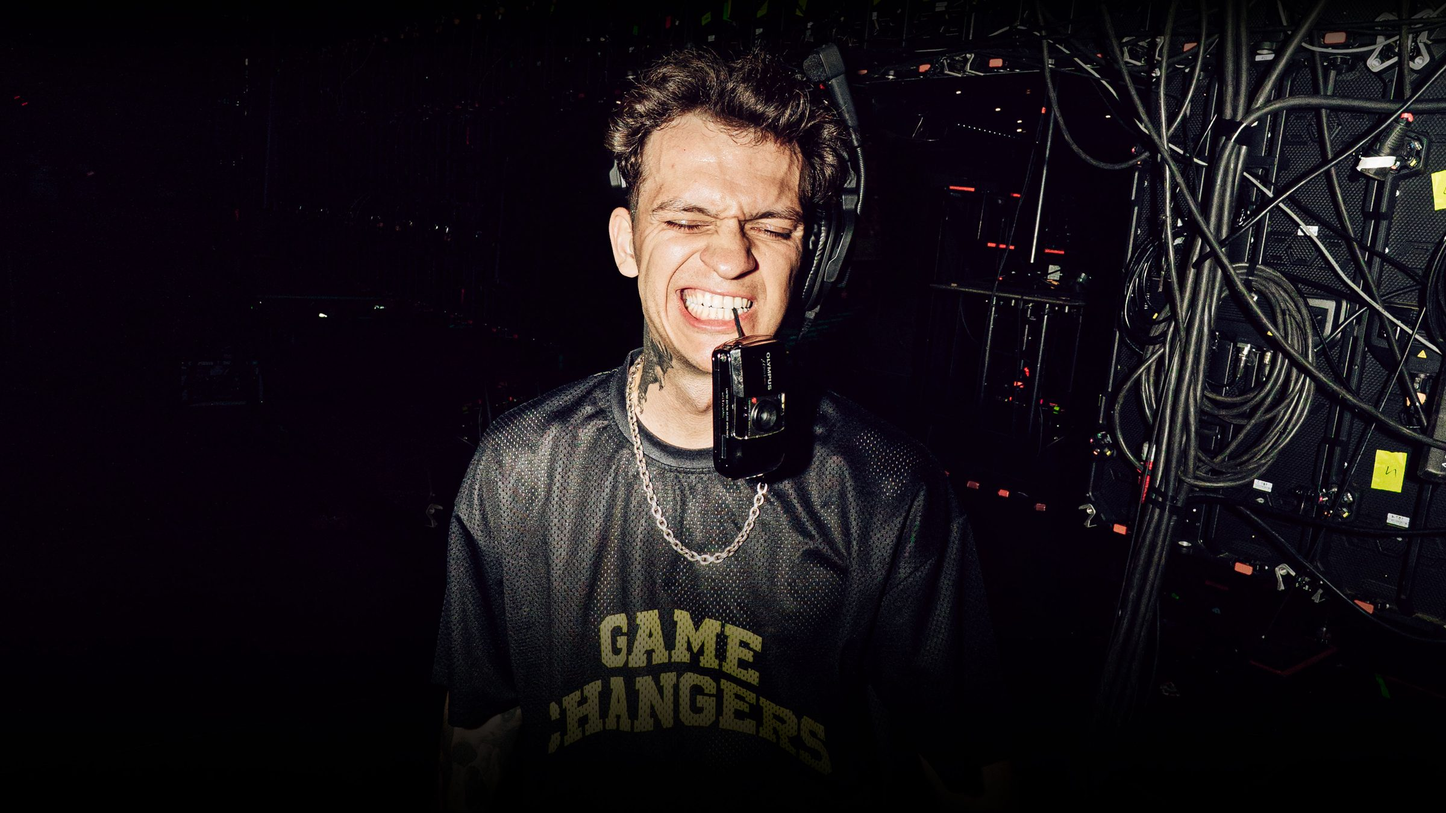
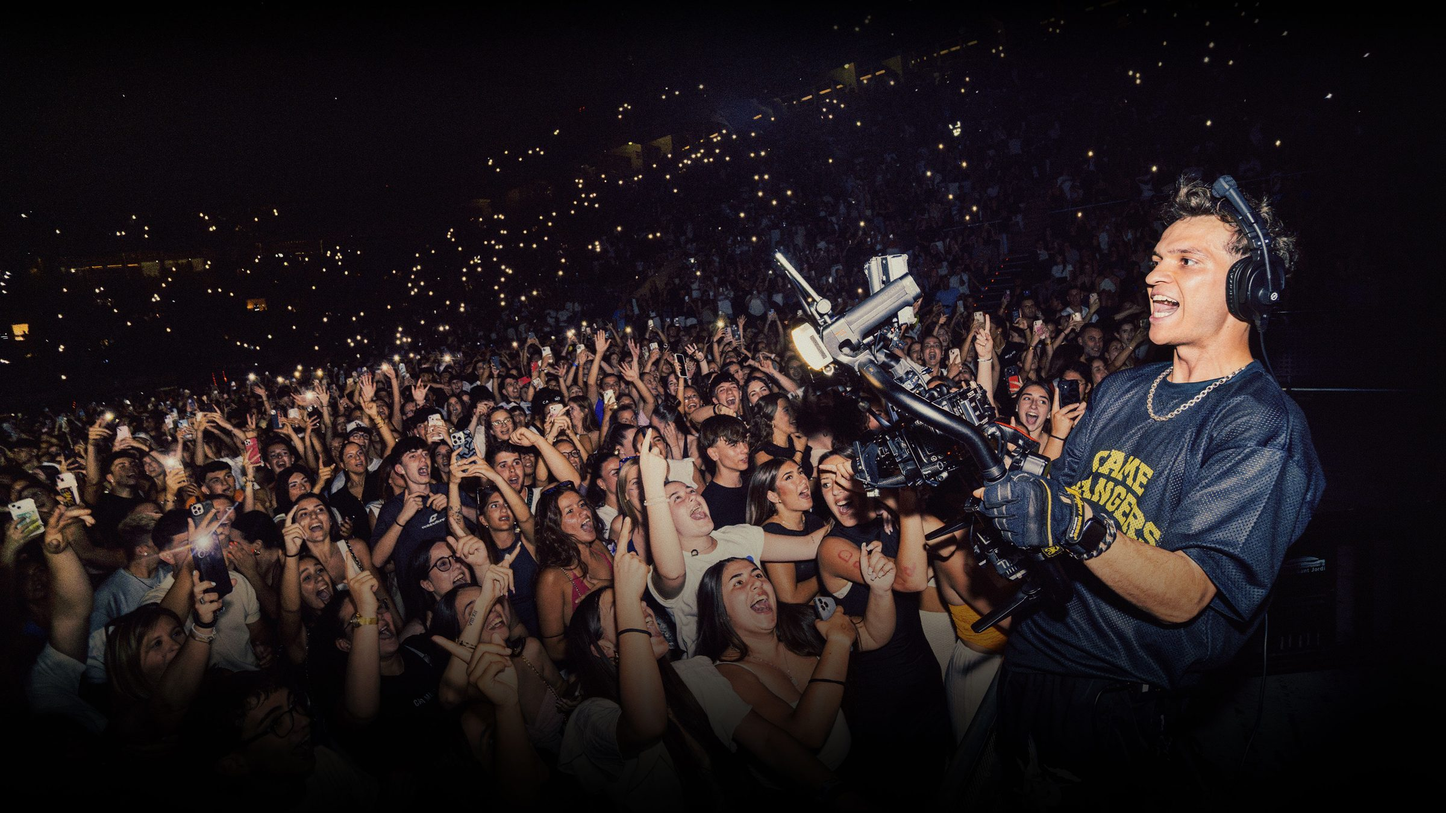
hero v3 locked: 005 desktop + full-bleed mobile, dark only, copy left, numbers first scroll on phone, About card 1.35fr
Oleg 2026-09-02 19:31: 'keep it as it is right now'. Tag hero-lock-2.

diff --git a/index.html b/index.html
@@ -16,7 +16,6 @@
 <link rel="canonical" href="https://olegbrovchenko.com/">
 <link rel="icon" href="/favicon.svg" type="image/svg+xml">
 <meta name="theme-color" content="#121212">
-<script>(function(){try{var t=localStorage.getItem('theme');if(!t)t=matchMedia('(prefers-color-scheme: dark)').matches?'dark':'light';document.documentElement.setAttribute('data-theme',t)}catch(e){}})()</script>
 <script type="application/ld+json">
 {
   "@context": "https://schema.org",
@@ -49,17 +48,12 @@
 <link rel="preconnect" href="https://fonts.gstatic.com" crossorigin>
 <link href="https://fonts.googleapis.com/css2?family=Geist:wght@500;600&family=Inter:wght@400;500&display=swap" rel="stylesheet">
 <style>
-  /* Brand DNI base (Geist display / Inter body) with two ruled page exceptions, Oleg 2026-09-01: pure-white ground, and no Geist Mono anywhere (Inter carries labels/readouts; --mono kept as the label-role hook) */
+  /* Brand DNI night palette (Geist display / Inter body). Oleg 2026-09-02: dark only, light version killed; no Geist Mono anywhere (Inter carries labels/readouts) */
   :root{
-    --paper:#ffffff; --ink:#282828; --ink-strong:#121212; --ink-faint:#7d766a;
-    --accent-day:#8a6600; --line:rgba(40,40,40,.14); --card:#f3f3f1; --nav-h:64px;
-    color-scheme:light;
-    --display:'Geist',system-ui,sans-serif; --body:'Inter',system-ui,sans-serif; --mono:'Inter',system-ui,sans-serif;
-  }
-  :root[data-theme="dark"]{
     --paper:#121212; --ink:#e8e2d8; --ink-strong:#fbf6ef; --ink-faint:#9a948a;
-    --accent-day:#d99a00; --line:rgba(251,246,239,.16); --card:#1c1c1c;
+    --accent-day:#d99a00; --line:rgba(251,246,239,.16); --card:#1c1c1c; --nav-h:64px;
     color-scheme:dark;
+    --display:'Geist',system-ui,sans-serif; --body:'Inter',system-ui,sans-serif; --mono:'Inter',system-ui,sans-serif;
   }
   *{box-sizing:border-box;margin:0;padding:0}
   html{scroll-behavior:smooth}
@@ -81,14 +75,9 @@
   nav ul{display:flex;gap:26px;list-style:none}
   nav ul a{font-size:15px;font-weight:500;font-family:var(--body);opacity:.9}
   nav ul a:hover{opacity:1}
-  .theme{width:34px;height:34px;border-radius:999px;border:1px solid currentColor;background:transparent;color:inherit;cursor:pointer;display:grid;place-items:center;opacity:.85}
-  .theme:hover{opacity:1}
-  .theme svg{width:16px;height:16px;fill:none;stroke:currentColor;stroke-width:1.8;stroke-linecap:round;stroke-linejoin:round}
-  .theme .sun{display:none}
-  :root[data-theme="dark"] .theme .sun{display:block}
-  :root[data-theme="dark"] .theme .moon{display:none}
   /* hero */
   header.hero{position:relative;height:100svh;min-height:560px;display:flex;flex-direction:column;justify-content:center;color:#fff;overflow:hidden;background:#121212;text-align:left}
+  .hero picture{position:absolute;inset:0}
   .hero img.bg{position:absolute;inset:0;width:100%;height:100%;object-fit:cover;object-position:center 30%}
   .hero::after{content:"";position:absolute;inset:0;background:radial-gradient(ellipse 45% 55% at 18% 42%,rgba(18,18,18,.45) 0%,rgba(18,18,18,0) 100%),linear-gradient(180deg,rgba(18,18,18,.18) 0%,rgba(18,18,18,0) 30%,rgba(18,18,18,.6) 100%)}
   .hero>.wrap{position:relative;z-index:1;width:100%;max-width:none;padding:calc(var(--nav-h) + 24px) 24px 24px max(24px,3.5vw);flex:1;display:flex;flex-direction:column;justify-content:center;align-items:flex-start;min-height:0}
@@ -101,6 +90,7 @@
   .hero .proof{position:relative;z-index:1;border:0;border-top:1px solid rgba(255,255,255,.18);padding:22px 0 26px;background:linear-gradient(180deg,rgba(18,18,18,0),rgba(18,18,18,.55));flex:none}
   .hero .proof b{color:#fff}
   .hero .proof span{color:rgba(255,255,255,.7)}
+  .hero .proof .lg{font-style:normal}
   /* placeholder blocks */
   .ph{border:1.5px dashed var(--line);border-radius:6px;display:flex;align-items:center;justify-content:center;text-align:center;padding:16px;color:var(--ink-faint);font-family:var(--mono);font-size:12px;letter-spacing:.08em;text-transform:uppercase;background:rgba(40,40,40,.025)}
   .ph.still{aspect-ratio:16/9}
@@ -111,7 +101,9 @@
   .proof span{font-size:14px;color:var(--ink-faint)}
   section{padding:84px 0}
   /* bio */
-  .bio-grid{display:grid;grid-template-columns:1fr 1.5fr;gap:48px;align-items:start}
+  #about .wrap{max-width:none;padding:0 max(24px,3.5vw)}
+  .bio-grid{display:grid;grid-template-columns:1.35fr 1fr;gap:64px;align-items:start}
+  .bio{padding-top:calc(clamp(26px,4vw,38px) * 1.1 + 28px)}
   .bio p{max-width:62ch}
   .bio p + p{margin-top:1em}
   /* timeline */
@@ -159,12 +151,34 @@
   footer{border-top:1px solid var(--line);padding:34px 0;font-size:14px;color:var(--ink-faint)}
   footer .wrap{display:flex;justify-content:space-between;flex-wrap:wrap;gap:12px}
   @media(max-width:760px){
-    .bio-grid,.cos{grid-template-columns:1fr}
-    .hero>.wrap{padding:calc(var(--nav-h) + 16px) 20px 16px}
+    .cos{grid-template-columns:1fr}
+    h2{text-align:center}
+    #about .wrap{padding:0 24px}
+    .bio{padding-top:0}
+    .bio-grid{display:flex;flex-direction:column;align-items:center;gap:28px;text-align:center}
+    .bio-grid>div:first-child{width:100%}
+    .bio p{margin-left:auto;margin-right:auto}
+    .doc .cap{text-align:center}
+    .topics ul{justify-content:center}
+    .connect .socials{justify-content:center}
+    .connect .wrap{text-align:center}
+    .capture{margin-left:auto;margin-right:auto}
+    .catalog-line{text-align:center}
+    /* phone: full-bleed 9:19.5 photo, copy over the dark bottom, numbers are the first scroll */
+    header.hero{text-align:center;height:auto;display:block}
+    .hero picture{position:absolute;inset:0 0 auto 0;height:100svh}
+    .hero img.bg{object-position:center top}
+    .hero::after{inset:0 0 auto 0;height:100svh;background:linear-gradient(180deg,rgba(18,18,18,.3) 0%,rgba(18,18,18,0) 20%,rgba(18,18,18,0) 55%,rgba(18,18,18,.55) 100%)}
+    .hero>.wrap{min-height:100svh;padding:calc(var(--nav-h) + 16px) 20px 36px;justify-content:flex-end;align-items:center}
     .hero .copy{max-width:none;transform:none}
+    .hero .role{margin-left:auto;margin-right:auto}
+    .hero .proof{background:var(--paper);border-top:1px solid var(--line);padding:28px 0 32px}
     .hero h1{font-size:clamp(30px,10.5vw,44px)}
     .hero .proof{padding:18px 0 20px}
     .hero .proof b{font-size:26px}
+    .hero .proof span{font-size:12.5px}
+    .hero .proof .lg{display:none}
+    .hero .proof .wrap{gap:14px 8px}
     .proof .wrap{grid-template-columns:repeat(2,1fr)}
     nav ul{display:none}
     .hero .proof .wrap{gap:14px 12px}
@@ -184,23 +198,22 @@
       <li><a href="#companies">Companies</a></li>
       <li><a href="#contact">Contact</a></li>
     </ul>
-    <button class="theme" id="theme" type="button" aria-label="Toggle dark mode" title="Dark / light">
-      <svg class="moon" viewBox="0 0 24 24"><path d="M21 12.8A9 9 0 1 1 11.2 3a7 7 0 0 0 9.8 9.8z"/></svg>
-      <svg class="sun" viewBox="0 0 24 24"><circle cx="12" cy="12" r="4"/><path d="M12 2v2M12 20v2M4.9 4.9l1.4 1.4M17.7 17.7l1.4 1.4M2 12h2M20 12h2M4.9 19.1l1.4-1.4M17.7 6.3l1.4-1.4"/></svg>
-    </button>
   </div>
 </div></nav>
 
 <header class="hero" id="top">
-  <img class="bg" src="assets/hero.jpg" srcset="assets/hero-1200.jpg 1200w, assets/hero.jpg 2400w" sizes="100vw" alt="Oleg Brovchenko backstage, camera in his teeth, GAME CHANGERS shirt" width="2400" height="1350" fetchpriority="high">
+  <picture>
+    <source media="(max-width:760px)" srcset="assets/hero-mobile.jpg">
+    <img class="bg" src="assets/hero.jpg" srcset="assets/hero-1200.jpg 1200w, assets/hero.jpg 2400w" sizes="100vw" alt="Oleg Brovchenko filming a crowd from the stage, camera in hand" width="2400" height="1350" fetchpriority="high">
+  </picture>
   <div class="wrap"><div class="copy">
     <h1>Oleg Brovchenko</h1>
-    <p class="role">Filmmaker and a director. Started with nothing<br>but a camera. Still pushing what one person can do.</p>
+    <p class="role">Filmmaker and a director. Started with nothing <br>but a camera. Still pushing what one person can do.</p>
   </div></div>
   <div class="proof"><div class="wrap">
     <div><b>620M+</b><span>combined views</span></div>
     <div><b>134</b><span>catalog credits</span></div>
-    <div><b>€1M+</b><span>production budgets managed</span></div>
+    <div><b>€1M+</b><span><em class="lg">production </em>budgets managed</span></div>
     <div><b>15</b><span>years behind the camera</span></div>
   </div></div>
 </header>
@@ -338,12 +351,9 @@
 </div></footer>
 
 <script>
+  const mq=new URLSearchParams(location.search).get('m');if(mq){document.querySelector('.hero source').srcset='assets/hero-mobile-'+mq+'.jpg'}
   const nav=document.getElementById('nav'),hero=document.querySelector('.hero');
   new IntersectionObserver(([e])=>nav.classList.toggle('solid',!e.isIntersecting),{rootMargin:'-64px 0px 0px 0px',threshold:0}).observe(hero);
-  document.getElementById('theme').addEventListener('click',()=>{
-    const r=document.documentElement,t=r.getAttribute('data-theme')==='dark'?'light':'dark';
-    r.setAttribute('data-theme',t);try{localStorage.setItem('theme',t)}catch(e){}
-  });
   const btns=document.querySelectorAll('.filters button'),cards=document.querySelectorAll('.card');
   btns.forEach(b=>b.addEventListener('click',()=>{
     btns.forEach(x=>{x.classList.remove('on');x.setAttribute('aria-pressed','false')});
